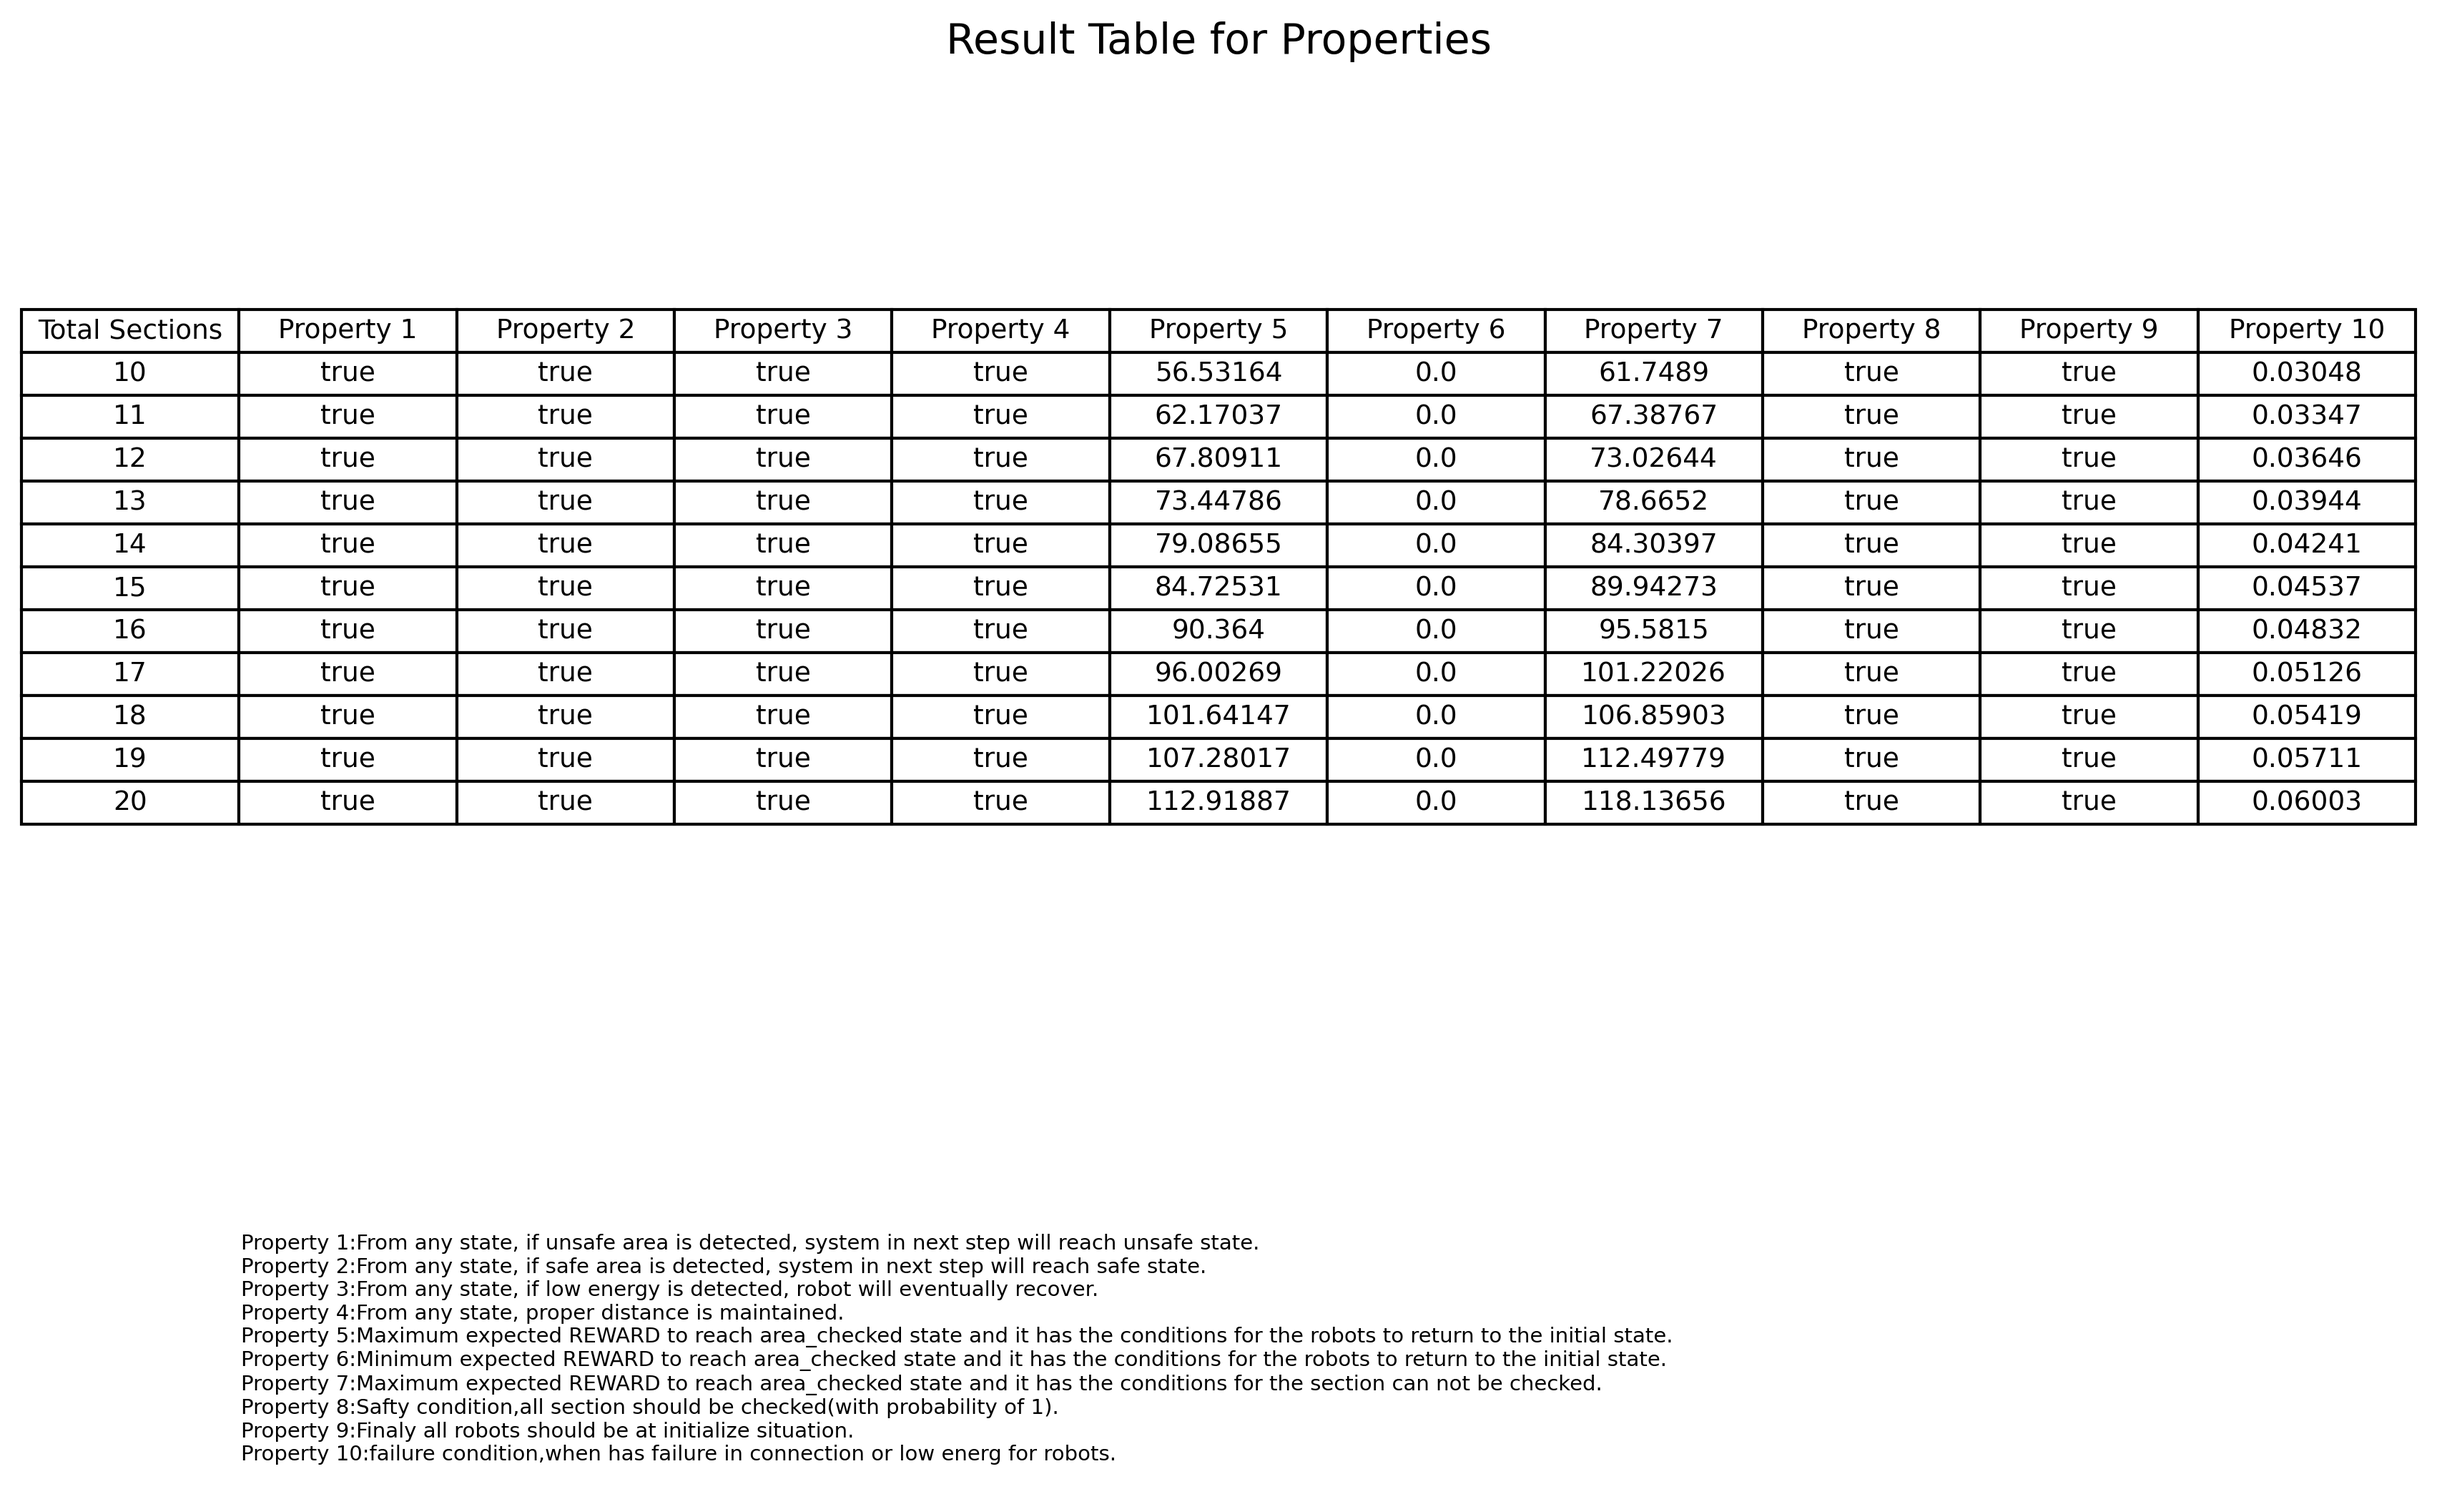
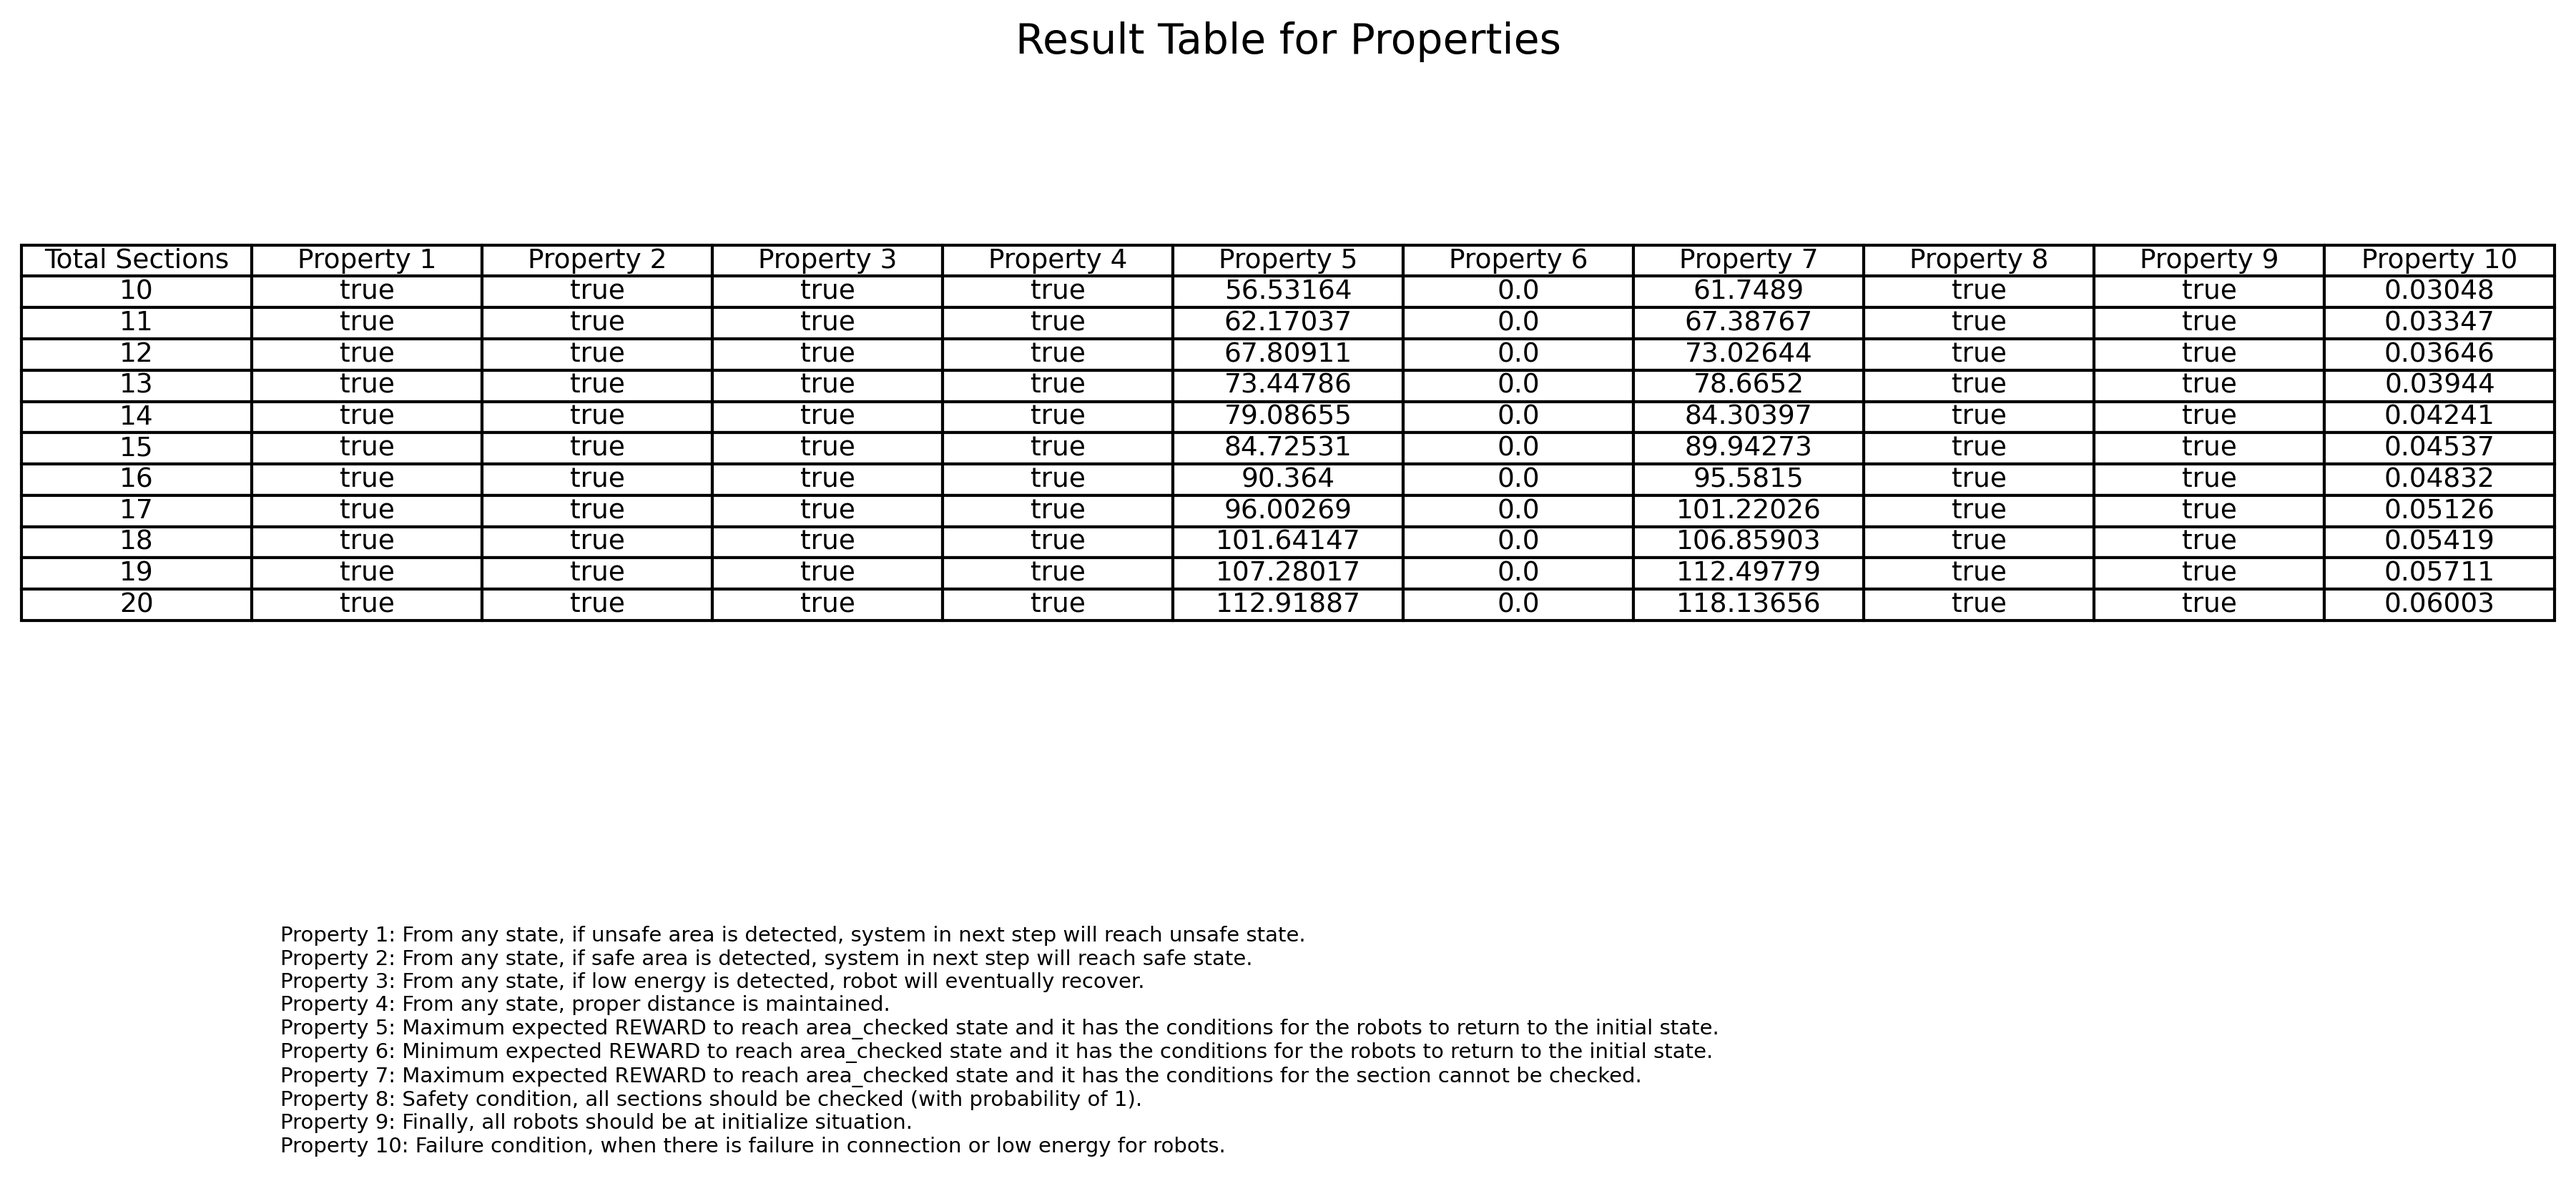
fix : chnage code 6 to plot and tables properties

Changed region(s): [[0.0, 0.1857, 0.9953, 0.5571], [0.0933, 0.7738, 0.6843, 0.9905], [0.3732, 0.0, 0.6221, 0.0619]]

diff --git a/codes/code6.py b/codes/code6.py
@@ -2,13 +2,14 @@ import subprocess
 import matplotlib.pyplot as plt
 
 
+# File paths
 model_file = r"C:\Aterm9\Karshensi_Project\all\first_model.prism"
 properties_file = r"C:\Aterm9\Karshensi_Project\all\properties.props"
-##prism.bat "C:\Aterm9\Karshensi_Project\all\first_model.prism" "C:\Aterm9\Karshensi_Project\all\properties.props" -const total_sections=10,max_retries=3,max_distance=150,recovery_position=33,p_explore_success=0.7,p_gas_detect=0.88,p_structure_safe=0.86,p_gas_presence=0.78,p_structure_stable=0.96,p_structure_checkable=0.89,p_send_success=0.78,p_send_success_lead=0.86,p_send_success_gas_detector=0.86,min_energy_lead=10,min_energy_gas_detector=10,min_energy_safe_detector=10,min_energy_leader=10,max_speed_lead=120,max_speed_gas_detector=120,max_speed_safe_detector=120,max_speed_leader=120 -simpath 250 "C:\Aterm9\Karshensi_Project\all\simulation_output.txt"
-
 cost_file_path = r"C:\Aterm9\Karshensi_Project\all\consts\consts6.txt"
 
+
 def parse_cost_line(line):
+    """Parse a line from the cost file into a dictionary."""
     param_dict = {}
     for param in line.strip().split(","):
         key_value = param.split("=")
@@ -17,97 +18,118 @@ def parse_cost_line(line):
             param_dict[key.strip()] = float(value.strip()) if "." in value else int(value.strip())
     return param_dict
 
-def run_prism_with_cost_group(cost_group, counterGroup, result_data):
-    param_str = ",".join([f"{key}={value}" for key, value in cost_group.items()])
 
-    prism_command = [
+def build_prism_command(cost_group):
+    """Build the PRISM command for execution."""
+    param_str = ",".join([f"{key}={value}" for key, value in cost_group.items()])
+    return [
         r"cd", r"C:\Program Files\prism-4.8.1\bin", "&&",
         r"prism.bat", model_file, properties_file, "-const", param_str
     ]
 
+
+def process_prism_output(output, cost_group, result_data, counter_group):
+    """Process the PRISM output and update the result_data dictionary."""
+    total_section = cost_group["total_sections"]
+    result_data[0].append(total_section)
+
+    property_number = 1
+    for line in output.splitlines():
+        if "Result" in line:
+            print(f"Result for cost group {counter_group}, property {property_number}: {line}")
+            value_str = line.split(":")[1].strip()
+
+            if property_number == 10:
+                numerical_value = float(value_str.split()[0].strip())
+                result_data[property_number].append(round(numerical_value, 5))
+            else:
+                if value_str.lower() in ["true", "false"]:
+                    result_data[property_number].append(value_str)
+                else:
+                    numerical_value = float(value_str)
+                    result_data[property_number].append(round(numerical_value, 5))
+
+            property_number += 1
+
+
+def run_prism_with_cost_group(cost_group, counter_group, result_data):
+    """Run PRISM with the given cost group and process the results."""
+    prism_command = build_prism_command(cost_group)
     try:
         result = subprocess.run(' '.join(prism_command), shell=True, capture_output=True, text=True, check=True)
-        output = result.stdout
-
-        total_section = cost_group["total_sections"]
-        result_data[0].append(total_section)  # Add total_sections to the result_data
-
-        propertyNumber = 1
-        for line in output.splitlines():
-            if "Result" in line:
-                print(f"Result for cost group {counterGroup}, property {propertyNumber}: {line}")
-                value_str = line.split(":")[1].strip()
-
-                if propertyNumber == 10:
-                    # Parse and round numerical values to 5 decimal places
-                    numerical_value = float(value_str.split()[0].strip())
-                    rounded_value = round(numerical_value, 5)
-                    result_data[propertyNumber].append(rounded_value)
-                else:
-                    if value_str.lower() == "true" or value_str.lower() == "false":
-                        result_data[propertyNumber].append(value_str)  # Append boolean values as is
-                    else:
-                        # Parse and round other numerical values
-                        numerical_value = float(value_str)
-                        rounded_value = round(numerical_value, 5)
-                        result_data[propertyNumber].append(rounded_value)
-
-                propertyNumber += 1
-
+        process_prism_output(result.stdout, cost_group, result_data, counter_group)
     except subprocess.CalledProcessError as e:
-        print(f"Error running PRISM with cost group {counterGroup}:\n", e.stderr)
+        print(f"Error running PRISM with cost group {counter_group}:\n", e.stderr)
 
 
-# Initialize result_data with keys 0 to 10
-result_data = {i: [] for i in range(11)}
+def generate_result_table(result_data, columns):
+    """Generate the result table for visualization."""
+    table_data = list(zip(*[result_data[key] for key in range(11)]))
 
-counterGroup = 1
-with open(cost_file_path, 'r') as cost_file:
-    for line in cost_file:
-        if line.strip():  # Skip empty lines
-            cost_group = parse_cost_line(line)
-            run_prism_with_cost_group(cost_group, counterGroup, result_data)
-        counterGroup += 1
+    plt.figure(figsize=(12, 6))
+    plt.axis("off")
+    plt.title("Result Table for Properties", fontsize=14)
 
-columns = ["Total Sections"] + [f"Property {i}" for i in range(1, 11)]
-table_data = list(zip(*[result_data[key] for key in range(11)]))
+    table = plt.table(
+        cellText=table_data,
+        colLabels=columns,
+        loc="center",
+        cellLoc="center",
+    )
+    table.auto_set_font_size(False)
+    table.set_fontsize(9)
+    table.scale(1.2, 1.2)
 
-plt.figure(figsize=(12, 6))
-plt.axis("off")
-plt.title("Result Table for Properties", fontsize=14)
+    add_explanations_below_table()
 
-# Add table
-table = plt.table(
-    cellText=table_data,
-    colLabels=columns,
-    loc="center",
-    cellLoc="center",
-)
 
-# Increase font size for the table cells
-table.auto_set_font_size(False)
-table.set_fontsize(9)  # Adjust this value to make the font size bigger
-table.scale(1.2, 1.2)  # Scale the table to make it larger
+def add_explanations_below_table():
+    """Add explanations below the result table."""
+    explanation_text = """
+    Property 1: From any state, if unsafe area is detected, system in next step will reach unsafe state.
+    Property 2: From any state, if safe area is detected, system in next step will reach safe state.
+    Property 3: From any state, if low energy is detected, robot will eventually recover.
+    Property 4: From any state, proper distance is maintained.
+    Property 5: Maximum expected REWARD to reach area_checked state and it has the conditions for the robots to return to the initial state.
+    Property 6: Minimum expected REWARD to reach area_checked state and it has the conditions for the robots to return to the initial state. 
+    Property 7: Maximum expected REWARD to reach area_checked state and it has the conditions for the section cannot be checked.
+    Property 8: Safety condition, all sections should be checked (with probability of 1).
+    Property 9: Finally, all robots should be at initialize situation.
+    Property 10: Failure condition, when there is failure in connection or low energy for robots.
+    """
 
-# Add explanations below the table
-explanation_text = """
-Property 1:From any state, if unsafe area is detected, system in next step will reach unsafe state.
-Property 2:From any state, if safe area is detected, system in next step will reach safe state.
-Property 3:From any state, if low energy is detected, robot will eventually recover.
-Property 4:From any state, proper distance is maintained.
-Property 5:Maximum expected REWARD to reach area_checked state and it has the conditions for the robots to return to the initial state.
-Property 6:Minimum expected REWARD to reach area_checked state and it has the conditions for the robots to return to the initial state. 
-Property 7:Maximum expected REWARD to reach area_checked state and it has the conditions for the section can not be checked.
-Property 8:Safty condition,all section should be checked(with probability of 1).
-Property 9:Finaly all robots should be at initialize situation.
-Property 10:failure condition,when has failure in connection or low energ for robots.
-"""
+    plt.text(
+        0.01, -0.15, explanation_text, fontsize=7, ha="left", va="top", transform=plt.gca().transAxes
+    )
 
-plt.text(
-    0.01, -0.15, explanation_text, fontsize=7, ha="left", va="top", transform=plt.gca().transAxes
-)
 
-# Save the table as an image
-output_file = "plots/result_properties_table_with_explanations.png"
-plt.savefig(output_file, dpi=300, format="png", bbox_inches="tight")
-plt.show()
+def save_table_as_image(output_file):
+    """Save the generated table as an image file."""
+    plt.tight_layout()
+    plt.savefig(output_file, dpi=300, format="png", bbox_inches="tight")
+    plt.show()
+
+
+def main():
+    # Initialize result_data
+    result_data = {i: [] for i in range(11)}
+
+    # Read the cost file and process each line
+    counter_group = 1
+    with open(cost_file_path, 'r') as cost_file:
+        for line in cost_file:
+            if line.strip():
+                cost_group = parse_cost_line(line)
+                run_prism_with_cost_group(cost_group, counter_group, result_data)
+            counter_group += 1
+
+    # Define column labels
+    columns = ["Total Sections"] + [f"Property {i}" for i in range(1, 11)]
+
+    # Generate and save the result table
+    generate_result_table(result_data, columns)
+    save_table_as_image("plots/result_properties_table_with_explanations.png")
+
+
+if __name__ == "__main__":
+    main()
